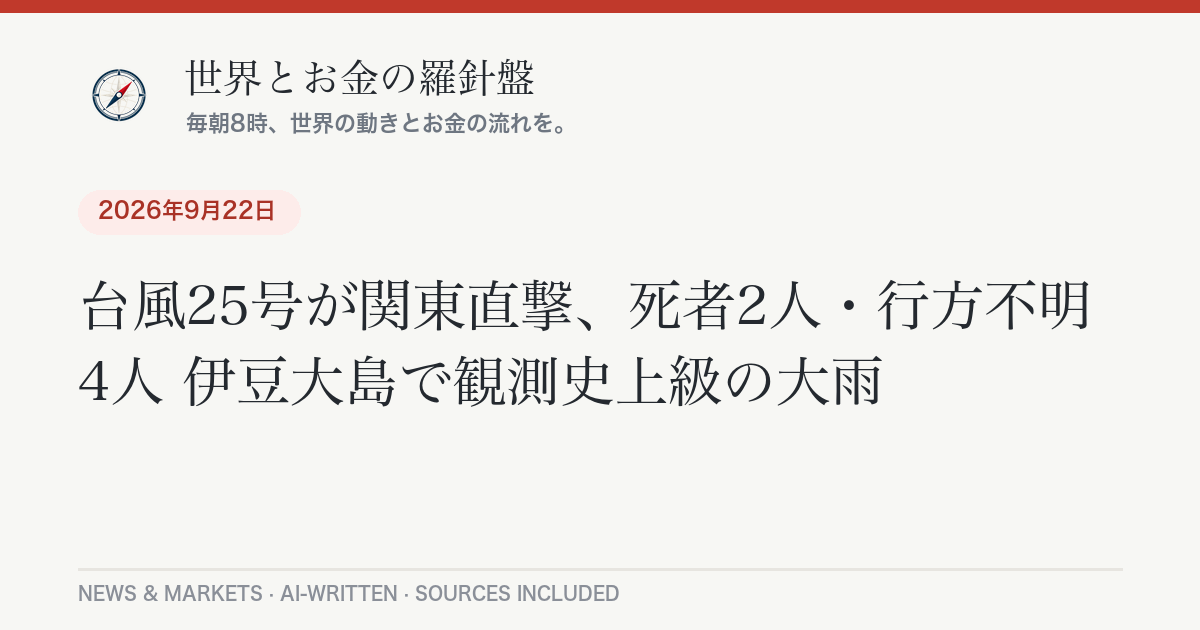
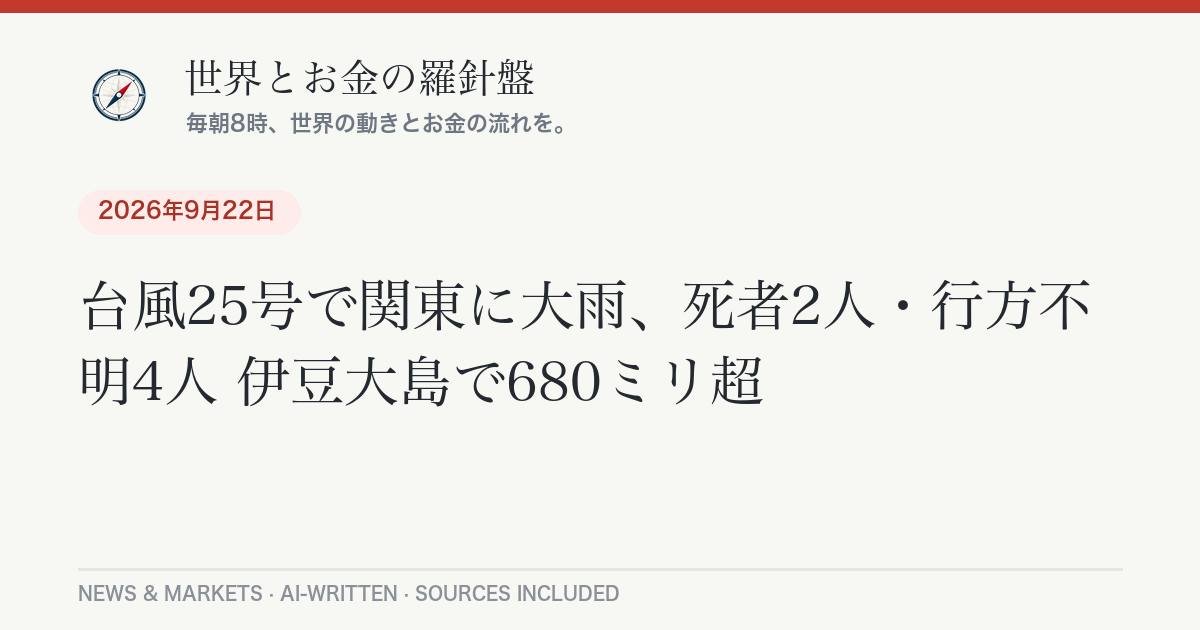
Daily briefing 2026-09-24

Changed region(s): [[0.0617, 0.5429, 0.74, 0.6635], [0.37, 0.4222, 0.925, 0.5429], [0.2467, 0.4524, 0.3083, 0.5127]]

diff --git a/_posts/2026-09-24-daily-briefing.md b/_posts/2026-09-24-daily-briefing.md
@@ -1,0 +1,107 @@
+---
+layout: post
+lang: ja
+title: "米10年債利回りが2007年以来の高水準、NY株は3指数そろって下落｜9月24日のニュースとお金"
+date: 2026-09-24 07:41:31 +0900
+categories: [ニュース, 経済]
+headline: "米10年債利回りが2007年以来の高水準、NY株は3指数そろって下落"
+permalink: /2026/09/24/daily-briefing/
+---
+
+## 今日のポイント
+
+アメリカで「金利の上昇」が一段と進みました。景気の強さを示すデータと、FRB（米国の中央銀行）幹部の「さらに利上げが必要」という発言が重なり、長期金利は約19年ぶりの高さに。株は売られ、ドルは買われて、円は1ドル＝158円台まで下がりました。日本では5連休が明け、今日24日から東京市場が再開します。
+
+## 今日の羅針盤（Compass Insight）
+
+今日の流れを一言でいえば「景気が強すぎて、金利が下がらない」です。米国の企業景況感は約5年ぶりの高さで、しかも仕入れコストは燃料・運賃の上昇で2022年以来の勢いで上がっています。景気が良く、物価も上がる——こうなると中央銀行は利上げを続けやすくなり、長期金利も上がります。その結果、将来の利益を先取りして買われてきたハイテク株ほど売られやすくなりました。
+
+家計への影響で気になるのは2点です。ひとつは円安。日米の金利差が縮まりにくいため、ドル円は158円台まで円安が進みました。ガソリンや電気・ガス、輸入食品の値段には下がりにくい圧力がかかり続けます。もうひとつはローン金利。米国では30年固定の住宅ローン金利が7%台に上がっています。日本も日銀が政策金利を1.25%へ引き上げたばかりで、変動金利で借りている家庭は返済額の見直しに備えておきたい局面です。
+
+短期的には、連休明けの東京市場が米国の金利高・ハイテク安をどう受け止めるか、そして円安がどこまで進むか（政府・日銀の介入への警戒）に注目です。中長期では、10月27〜28日の米FOMCで追加利上げがあるかどうか、原油が高止まりするかどうかが、世界の株価と為替の方向を左右しそうです。
+
+## 今日のニュース
+
+### 日本
+
+- **台風25号、死者9人・不明4人に**：記録的な大雨で浸水や土砂崩れが相次いだ千葉・神奈川で、23日までに[死者が計9人、行方不明者は4人](https://www.nikkei.com/article/DGXZQOUD230AP0T20C26A9000000/)となりました（23日時点・日経報道）。千葉県佐倉市では川があふれ、多くの住宅が浸水被害を受けています。
+- **高市首相が国連総会で一般討論演説**：高市首相は現地時間22日（日本時間23日朝）、国連総会で演説し、中国を念頭に、エネルギーや資源をめぐる[「恣意的な輸出規制」への懸念](https://www.nikkei.com/article/DGXZQOUA2112Q0R20C26A9000000/)を示し、自由で透明な貿易を守るよう訴えました。演説全文は[外務省](https://www.mofa.go.jp/mofaj/fp/un/pageit_000001_03218.html)が公開しています。
+- **東京市場は今日から再開**：9月19日からの5連休が明け、24日から取引が再開します。連休中に進んだ米国の金利上昇と円安を一気に織り込む展開になりそうです。
+
+### 世界
+
+- **中国の習近平国家主席が訪米**：習主席は23日、ワシントン近郊の空軍基地に到着し、トランプ大統領が[機体のそばで出迎える異例の歓迎](https://www.washingtonpost.com/politics/2026/09/23/trump-xi-arrival-washington-state-visit/dedf14ca-b703-11f1-94cb-d3d8f22a8c8b_story.html)を行いました。25日までの滞在中、貿易・AI・重要鉱物やイラン情勢が話し合われる見通しです。
+- **ハリケーン「ポロ」、最強クラスに**：メキシコ太平洋沖のハリケーン「ポロ」は一時カテゴリー5に達し、[観測史上でも屈指の強さ](https://www.npr.org/2026/09/23/nx-s1-5978589/hurricane-polo)と報じられています。上陸はしない見込みですが、沿岸部では強風と大雨への警戒が続いています。
+
+### アメリカ
+
+- **トランプ大統領が国連で演説**：22日の国連総会演説で、イランについて[「壊滅させる」選択肢に言及しつつ、中間選挙後の合意に期待](https://www.nbcnews.com/politics/trump-administration/trump-address-united-nations-general-assembly-iran-war-rcna599085)を示しました。
+- **FRB理事「追加利上げが必要になる可能性が高い」**：マイケル・バー理事は23日、インフレを2%目標へ戻すには[さらなる利上げが必要になる可能性が高い](https://www.fxstreet.com/news/feds-barr-further-rate-hikes-needed-for-timely-return-to-2-inflation-202609231443)との見方を示しました。
+
+### ヨーロッパ
+
+- **フランスで燃料不足が深刻化**：中東での供給混乱を背景に、フランスでは[全国の給油所の約9カ所に1カ所で燃料が品薄](https://www.thelocal.fr/20260921/how-bad-are-the-fuel-shortages-across-france-this-week)となり、軽油価格は過去最高水準にあります。政府は[燃料税の一律引き下げは行わない方針](https://www.bloomberg.com/news/articles/2026-09-20/france-rules-out-across-the-board-fuel-tax-cuts-as-prices-spiral)で、的を絞った支援策を検討しています。
+
+## 経済とお金の動き
+
+### 世界の経済と原油・相場
+
+| 指標 | 値 | 前日比・動き |
+|---|---|---|
+| NYダウ | [51,511.59ドル](https://finance.yahoo.com/markets/live/stock-market-today-wednesday-september-23-dow-sp-500-nasdaq-080556640.html) | <span class="chg-down">-352.10ドル（-0.68%）</span>（9/23終値） |
+| S&P500 | 7,706.03 | <span class="chg-down">-0.75%</span>（9/23終値・Yahoo Finance） |
+| ナスダック総合 | [26,936.04](https://finance.yahoo.com/markets/live/stock-market-today-wednesday-september-23-dow-sp-500-nasdaq-080556640.html) | <span class="chg-down">-1.13%</span>（9/23終値） |
+| 米10年債利回り | [一時5.1%台](https://finance.yahoo.com/markets/article/10-year-treasury-yield-hits-highest-level-since-2007-as-market-prices-in-another-fed-rate-hike-152744538.html) | <span class="chg-up">2007年以来の高水準</span> |
+| WTI原油（11月限） | [92.16ドル/バレル](https://fx.minkabu.jp/news/379743) | <span class="chg-up">+1.64ドル（+1.81%）</span>（9/23終値） |
+| ドル円 | [158円台前半](https://jp.investing.com/news/forex-news/article-1689753) | <span class="chg-up">157円76銭から158円40銭まで上昇</span>（9/23 NY市場） |
+| ドル円（参考・ECB基準） | 157.92円 | 9/23基準（frankfurter API） |
+
+原油はふたたび上昇に転じました。欧州向けの供給不安が続くなか、ブレント原油は[1バレル100ドル前後](https://finance.yahoo.com/markets/article/10-year-treasury-yield-hits-highest-level-since-2007-as-market-prices-in-another-fed-rate-hike-152744538.html)で推移しています。原油高は物価を押し上げ、「利上げが続く」という見方を強める材料になっています。
+
+### アメリカの経済
+
+23日発表の9月の米PMI（企業の景況感指数・速報）は、総合で[58.4と約5年ぶりの高水準](https://www.techtimes.com/articles/327930/20260923/us-growth-hits-five-year-high-pmi-584-complicates-feds-next-rate-call.htm)でした。仕入れコストの上昇も2022年10月以来の急ピッチです。これにバー理事のタカ派発言、5年債入札の不調が重なり、長期金利が急上昇しました。市場では[10月の追加利上げの確率が約7割](https://finance.yahoo.com/markets/article/10-year-treasury-yield-hits-highest-level-since-2007-as-market-prices-in-another-fed-rate-hike-152744538.html)まで織り込まれ、30年固定の住宅ローン金利は7.26%に上昇したと報じられています。「景気は強いが、お金を借りるコストは重くなる」という状態が続いています。
+
+### 日本の経済
+
+| 指標 | 値 | 前日比 |
+|---|---|---|
+| 日経平均株価 | [65,018.95円](https://www.zaikei.co.jp/article/20260918/870698.html) | <span class="chg-up">+882.70円（+1.38%）</span>（9/18終値、19〜23日は休場） |
+
+東京市場は5連休明けの24日に取引を再開します。連休中、米国ではAI関連株の上昇で一時は追い風もありましたが、23日は金利上昇でハイテク株が売られました。一方で円安は輸出企業の採算にはプラスに働きます。日銀は9月18日に政策金利を1.25%へ引き上げたばかりで、158円台の円安がどこまで続くか、政府・日銀の[円安是正介入への警戒感](https://jp.investing.com/news/forex-news/article-1689753)も意識されています。台風25号の被害が物流や小売にどう響くかも注目点です。
+
+## 今日の注目銘柄・セクター
+
+- **ロイヤル・カリビアン・クルーズ（RCL）**：リゾート運営のサンダルズに[約30億ドルで50%出資すると発表し、株価が大きく下落](https://www.forbes.com/sites/suzannerowankelleher/2026/09/23/royal-caribbean-3-billion-deal-sandals-resorts/)。借入による資金調達や本業から離れた多角化を不安視する声が出ました。カーニバルなど[クルーズ株全体も連れ安](https://247wallst.com/investing/2026/09/23/royal-caribbean-group-falls-5-on-3b-sandals-resorts-stake-carnival-and-norwegian-slide-3/)となりました。
+- **モノリシック・パワー・システムズ（MPWR）**：半導体向け電源の同社株は[S&P500の中で上昇率トップ（+8.1%）](https://www.trefis.com/stock/spy/articles/616252/sp-500-movers-winners-mpwr-sndk-len-losers-gen-gddy-rcl/2026-09-23)。相場全体が下げるなかでもAI関連の一部には買いが入りました。
+- **ハイテク・グロース株全般**：長期金利の上昇は、将来の利益の価値を目減りさせるため、ハイテク株の多いナスダックが[1.13%安](https://finance.yahoo.com/markets/live/stock-market-today-wednesday-september-23-dow-sp-500-nasdaq-080556640.html)と主要3指数で最も下げました。
+
+*※特定銘柄の売買を推奨するものではありません。投資判断はご自身の責任で。*
+
+## まとめ：注目の3つ
+
+1. **米長期金利が2007年以来の高さに**：強い景気指標とFRB幹部の発言で、10月の追加利上げ観測が強まっています。
+2. **円安158円台へ**：輸入品・エネルギー価格への影響と、介入警戒の強まりに注意です。
+3. **連休明けの東京市場と米中首脳会談**：24日の東京市場の反応と、習主席訪米での貿易・重要鉱物をめぐる協議の行方に注目です。
+
+---
+<div class="post-sources" markdown="1">
+
+**出典：**
+- [Yahoo Finance・Stock market today: Dow, S&P 500, Nasdaq tumble as 10-year Treasury yield surges to 2007 high](https://finance.yahoo.com/markets/live/stock-market-today-wednesday-september-23-dow-sp-500-nasdaq-080556640.html)
+- [Yahoo Finance・10-year Treasury yield hits highest level since 2007](https://finance.yahoo.com/markets/article/10-year-treasury-yield-hits-highest-level-since-2007-as-market-prices-in-another-fed-rate-hike-152744538.html)
+- [FXStreet・Fed's Barr: Further rate hikes needed](https://www.fxstreet.com/news/feds-barr-further-rate-hikes-needed-for-timely-return-to-2-inflation-202609231443)
+- [Tech Times・US Growth Hits Five-Year High: PMI 58.4](https://www.techtimes.com/articles/327930/20260923/us-growth-hits-five-year-high-pmi-584-complicates-feds-next-rate-call.htm)
+- [みんかぶ・原油は1.81％高＝NY原油終値](https://fx.minkabu.jp/news/379743)
+- [Investing.com・9月23日のNY為替概況](https://jp.investing.com/news/forex-news/article-1689753)
+- [日本経済新聞・台風25号の死者9人に 千葉と神奈川、不明4人](https://www.nikkei.com/article/DGXZQOUD230AP0T20C26A9000000/)
+- [日本経済新聞・首相、エネ・資源「恣意的な輸出規制懸念」](https://www.nikkei.com/article/DGXZQOUA2112Q0R20C26A9000000/)
+- [Washington Post・Xi kicks off state visit to Washington](https://www.washingtonpost.com/politics/2026/09/23/trump-xi-arrival-washington-state-visit/dedf14ca-b703-11f1-94cb-d3d8f22a8c8b_story.html)
+- [NPR・Category 5 Hurricane Polo](https://www.npr.org/2026/09/23/nx-s1-5978589/hurricane-polo)
+- [The Local・How bad are the fuel shortages across France this week?](https://www.thelocal.fr/20260921/how-bad-are-the-fuel-shortages-across-france-this-week)
+- [Forbes・Royal Caribbean $3 Billion Deal With Sandals Resorts](https://www.forbes.com/sites/suzannerowankelleher/2026/09/23/royal-caribbean-3-billion-deal-sandals-resorts/)
+- 市場データ: [frankfurter API](https://api.frankfurter.app/) ／ Yahoo Finance ほか
+
+*本記事は公開情報をもとに作成しています。*
+
+</div>

diff --git a/_posts/2026-09-24-daily-briefing-en.md b/_posts/2026-09-24-daily-briefing-en.md
@@ -1,0 +1,53 @@
+---
+layout: post
+lang: en
+title: "10-year Treasury yield hits highest since 2007 as stocks slide — September 24, 2026"
+date: 2026-09-24 07:41:31 +0900
+headline: "10-year Treasury yield hits highest since 2007 as stocks slide"
+permalink: /2026/09/24/daily-briefing/
+---
+
+## Top U.S. Stories
+
+- **Treasury yields surge to a 19-year high.** The 10-year Treasury yield climbed to [its highest level since 2007](https://finance.yahoo.com/markets/article/10-year-treasury-yield-hits-highest-level-since-2007-as-market-prices-in-another-fed-rate-hike-152744538.html) on Wednesday, driven by hot economic data, hawkish Fed commentary, a weak five-year note auction and elevated oil prices.
+  *Why it matters:* Higher long-term rates feed directly into mortgages, car loans and corporate borrowing costs — the average 30-year fixed mortgage rate reportedly jumped to 7.26%.
+- **Fed Governor Barr signals more hikes.** Michael Barr said [further rate increases will likely be needed](https://www.fxstreet.com/news/feds-barr-further-rate-hikes-needed-for-timely-return-to-2-inflation-202609231443) to return inflation to 2% in a timely fashion.
+  *Why it matters:* Markets now price roughly a 70% chance of another hike at the October 27–28 FOMC meeting.
+- **Business activity at a five-year high.** September's flash composite PMI rose to [58.4, a 62-month high](https://www.techtimes.com/articles/327930/20260923/us-growth-hits-five-year-high-pmi-584-complicates-feds-next-rate-call.htm), with input costs climbing at the fastest pace since October 2022.
+  *Why it matters:* Strong growth plus renewed price pressure makes it harder for the Fed to pause.
+- **Xi Jinping arrives in Washington.** President Trump greeted China's leader [planeside at Joint Base Andrews](https://www.washingtonpost.com/politics/2026/09/23/trump-xi-arrival-washington-state-visit/dedf14ca-b703-11f1-94cb-d3d8f22a8c8b_story.html) to open a three-day state visit focused on trade, AI, critical minerals and Iran.
+- **Hurricane Polo churns off Mexico.** Polo became [one of the strongest Pacific storms on record](https://www.npr.org/2026/09/23/nx-s1-5978589/hurricane-polo), though it is forecast to stay offshore.
+
+## Compass Insight
+
+The message from Wednesday's markets is simple: the economy is running too hot for rates to come down. A five-year-high PMI, rising input costs and oil hovering near triple digits have pushed investors to price in more Fed tightening, and long-duration assets — especially tech — are paying the price. The dollar is the clear winner, climbing above ¥158, which keeps imported inflation alive in Japan. In the short term, watch whether the 10-year yield holds above 5% and how Tokyo reacts as it reopens after a five-day holiday. Over the medium term, the October FOMC decision and the path of oil will set the tone. The Xi–Trump summit is a wildcard: any progress on trade or critical minerals could ease some pressure, while a setback would add to it.
+
+## Markets
+
+- **Dow:** [51,511.59](https://finance.yahoo.com/markets/live/stock-market-today-wednesday-september-23-dow-sp-500-nasdaq-080556640.html), down 352.10 points (-0.68%)
+- **S&P 500:** 7,706.03, down 0.75%
+- **Nasdaq Composite:** 26,936.04, down 1.13%
+- **WTI crude (Nov.):** [$92.16/bbl](https://fx.minkabu.jp/news/379743), up $1.64 (+1.81%)
+- **USD/JPY:** [rose from ¥157.76 to ¥158.40](https://jp.investing.com/news/forex-news/article-1689753) in New York trading
+
+## Stocks in Focus
+
+- **Royal Caribbean (RCL):** Shares fell sharply after the cruise operator agreed to buy [a 50% stake in Sandals Resorts for about $3 billion](https://www.forbes.com/sites/suzannerowankelleher/2026/09/23/royal-caribbean-3-billion-deal-sandals-resorts/), with analysts questioning the diversification and debt financing.
+- **Monolithic Power Systems (MPWR):** [Led the S&P 500 with an 8.1% gain](https://www.trefis.com/stock/spy/articles/616252/sp-500-movers-winners-mpwr-sndk-len-losers-gen-gddy-rcl/2026-09-23) despite the broader selloff.
+
+---
+<div class="post-sources" markdown="1">
+
+**Sources:**
+- [Yahoo Finance — Stock market today, Sept. 23](https://finance.yahoo.com/markets/live/stock-market-today-wednesday-september-23-dow-sp-500-nasdaq-080556640.html)
+- [Yahoo Finance — 10-year Treasury yield hits highest level since 2007](https://finance.yahoo.com/markets/article/10-year-treasury-yield-hits-highest-level-since-2007-as-market-prices-in-another-fed-rate-hike-152744538.html)
+- [FXStreet — Fed's Barr: Further rate hikes needed](https://www.fxstreet.com/news/feds-barr-further-rate-hikes-needed-for-timely-return-to-2-inflation-202609231443)
+- [Tech Times — US Growth Hits Five-Year High: PMI 58.4](https://www.techtimes.com/articles/327930/20260923/us-growth-hits-five-year-high-pmi-584-complicates-feds-next-rate-call.htm)
+- [Washington Post — Xi kicks off state visit to Washington](https://www.washingtonpost.com/politics/2026/09/23/trump-xi-arrival-washington-state-visit/dedf14ca-b703-11f1-94cb-d3d8f22a8c8b_story.html)
+- [NPR — Hurricane Polo](https://www.npr.org/2026/09/23/nx-s1-5978589/hurricane-polo)
+- [Forbes — Royal Caribbean and Sandals Resorts](https://www.forbes.com/sites/suzannerowankelleher/2026/09/23/royal-caribbean-3-billion-deal-sandals-resorts/)
+- Market data: [frankfurter API](https://api.frankfurter.app/) / Yahoo Finance / Minkabu
+
+</div>
+
+*Auto-generated and AI-written. Not investment advice.*
